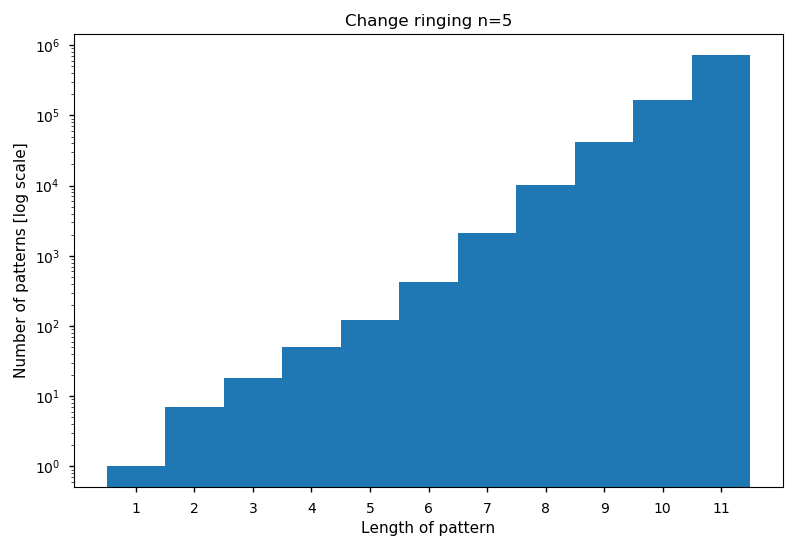
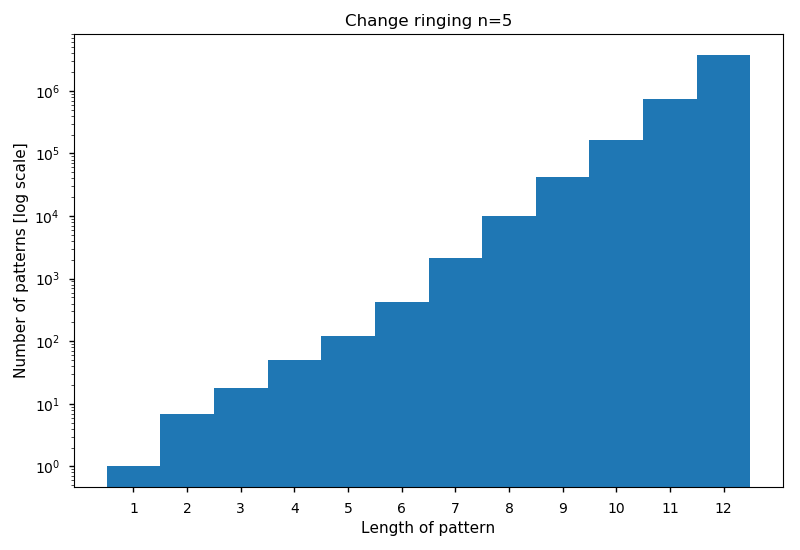
div

diff --git a/change_about.html b/change_about.html
@@ -28,28 +28,27 @@ the set {1,2,...,n-1,n} that satisfies the following criteria.
 
 <ol>
     <li>
-        The sequence must start with the permutation
-        <pre><code> (1,2,...,n-1,n) </code></pre>
-    </li>
-    <li>
-        The sequence must end with the starting permutation.
+        The position of each bell from one permutation to the next can stay the
+        same or move by at most one place.
     </li>
     <li>
         No permutation can be repeated except for the starting permutation
         which can be repeated at most once at the end of the pattern to
-        accommodate criterion 2.
-    </li>
-    <li>
-        The position of each bell from one permutation to the next can stay the
-        same or move by at most one place.
+        accommodate criterion 4.
     </li>
 </ol>
 
 <p>
-An optional and very common criterion is
+Optional criteria
 </p>
 
-<ol start="5">
+<ol start="3">
+    <li>
+        The sequence must start with the permutation (1,2,...,n-1,n)
+    </li>
+    <li>
+        The sequence must end with the same permutation that it started with.
+    </li>
     <li>
         The sequence must contain all permutations.
     </li>
@@ -61,14 +60,14 @@ An optional and very common criterion is
 <p>
 We define a
 <b><em>full pattern</em></b>
-as a pattern that satisfies all criteria.
+as a pattern that satisfies all five criteria.
 </p>
 
 
 <p>
 We define a
 <b><em>short pattern</em></b>
-as a pattern that satisfies all criteria except criterion 5.
+as a pattern that satisfies criteria 1-4, but does not satisfy criterion 5.
 </p>
 
 
@@ -89,22 +88,29 @@ than factorial(n).
 </p>
 
 <p>
-We will list both full and short patterns on this page. We will categorize
-patterns by their length. There is only one pattern of length 1 for any n,
-namely the pattern consisting solely the starting permutation. There are no
-patterns of length 0 since all patterns must at least have the starting
-permutation (criterion 1).
+There is only one pattern of length 1, namely the pattern consisting solely the
+starting permutation. There are no patterns of length 0 since all patterns must
+at least have the starting permutation (criterion 1).
 </p>
 
 <p>
-What about patterns for 0 bells? Remember that n is a positive integer, hence
-per definition there are no change ringing pattern for 0 bells. What is the
-reason for this?  Imagine a pattern for 0 bells. Since there are no
-bells to permute, there are no patterns of any length.
+We define a <em><b>cyclic pattern</b></em> as a pattern that satisfies criteria
+1-4. "Cyclic" because such patterns start and end with the same permutation.
 </p>
 
+<p>
+We define a <em><b>path pattern</b></em> as a pattern that satisfies criteria
+1-3. "Path" because such patterns are not necessarily cyclic, although every
+cyclic pattern is also a path pattern.
+</p>
 
+<p>
+We define a <em><b>non-cyclic pattern</b></em> as a pattern that satisfies
+criteria 1-3, but does not satisfy criterion 4. I.e. a non-cyclic pattern is
+a path pattern that is not cyclic.
+</p>
 <hr noshade="">
+
 
 <center>
 <a href="change1.html">n=1</a> &nbsp;

diff --git a/change4.html b/change4.html
@@ -16,15 +16,13 @@
 <form method="get" action="permutations.html"> <button type="submit">Permutations</button> </form>
 </p>
 
-
 </br>
-
 
 <h2>Change ringing patterns for n=4 bells</h2>
 
 <hr noshade="">
 
-<h3>Cyclic patterns (<a href="change_about.html">critertion 1-4</a>) </h3>
+<h3>Cyclic patterns (<a href="change_about.html">criterion 1,2,3,4</a>) </h3>
 
 <table style="width:200px">
 <tr><td><em>Length of pattern</em></td><td><em>Nr of patterns</em></td></tr>
@@ -66,7 +64,7 @@
 <hr noshade="">
 &nbsp;
 
-<h3>Path patterns (<a href="change_about.html">critertion 1,3,4</a>) </h3>
+<h3>Path patterns (<a href="change_about.html">criterion 1,2,3</a>) </h3>
 
 
 <table style="width:200px">
@@ -100,9 +98,7 @@
 <tr><td><b>Sum </b> </td><td><b>6094497</b></td></tr>
 </table>
 
-<p>
-Several of these files got rather large. That why I haven't uploaded them all.
-</p>
+<!-- <p>Several of these files got rather large.</p> -->
 
 &nbsp;
 
@@ -112,12 +108,10 @@ Several of these files got rather large. That why I haven't uploaded them all.
 
 <hr noshade="">
 
-<h3>Non-cyclic patterns</h3>
+<h3>Non-cyclic patterns (<a href="change_about.html">criterion 1,2,3 and not 4</a>)</h3>
 <p>
-The cyclic patterns
-(<a href="change_about.html">critertion 1-4</a>)
-are contained in the path patterns (criterion 1,3,4). Thus the non-cyclic
-patterns are simply the path patterns with the cyclic patterns taken away.
+The cyclic patterns are contained in the path patterns. Thus the non-cyclic
+patterns are simply the path patterns with those that are cyclic taken away.
 I.e. to find the number of non-cyclic patterns of length L, we take the
 difference between the number of cyclic patterns of length L and the number of
 path patterns of length L. For L=24 we get

diff --git a/change5.html b/change5.html
@@ -16,11 +16,11 @@
 <form method="get" action="permutations.html"> <button type="submit">Permutations</button> </form>
 </p>
 
-
 </br>
 
-
-<h3>Change ringing patterns for n=5 bells</h3>
+<h3>Change ringing patterns for n=5 bells
+    <!-- (<a href="change_about.html">critertion 1-4</a>) -->
+</h3>
 
 <table style="width:200px">
 <tr><td><em>Length of pattern</em></td><td><em>Nr of patterns</em></td></tr>
@@ -36,7 +36,8 @@
 <tr><td>                         9      </td><td>41544 </td></tr>
 <tr><td>                         10     </td><td>164022</td></tr>
 <tr><td>                         11     </td><td>730136</td></tr>
-<tr><td>                         12     </td><td>?</td></tr>
+<tr><td>                         12     </td><td>3770982</td></tr>
+<tr><td>                         13     </td><td>?</td></tr>
 <tr><td>                         .      </td><td>.</td></tr>
 <tr><td>                         .      </td><td>.</td></tr>
 <tr><td>                         .      </td><td>.</td></tr>

diff --git a/style.css b/style.css
@@ -1,10 +1,10 @@
 :root {
-    /*--textcol: #FFE4C4;*/
+    /*--textcol: #ffe4c4;*/
     --textcol: #ffe0c2;
     /*--textcol: #ffffcc;*/
 	--bg: #000010;
-    --linkcol: #48D1CC;
-    --linkcolalt: #5982c1;
+    --linkcol: #48d1cc;
+    --linkcolalt: #4c72b0;
 }
 
 
@@ -99,14 +99,15 @@ pre {
     border-radius: 4px;
     padding: 5px;
     display: block;
+    /*width: 200px;*/
     /* background: #1d2021; */
 }
 
 #viewfile  p {
     font: monospace;
     font-size: 14px;
-    /*background-color: #F7BE81; */
-    /*background-color: #F2D2A7;*/
+    /*background-color: #f7be81; */
+    /*background-color: #f2d2a7;*/
     background-color: var(--textcol);
 }
 

diff --git a/change3.html b/change3.html
@@ -18,11 +18,7 @@
 
 </br>
 
-<h3>There are 5 change ringing patterns for n=3 bells (<a href="files/change3.txt">file</a>) </h3>
-
-<p>
-Patterns satisfying <a href="change_about.html">critertion 1-4</a>.
-<p>
+<h3>Change ringing patterns for n=3 bells (<a href="files/change3.txt">file</a>) </h3>
 
 <table>
   <tr>
